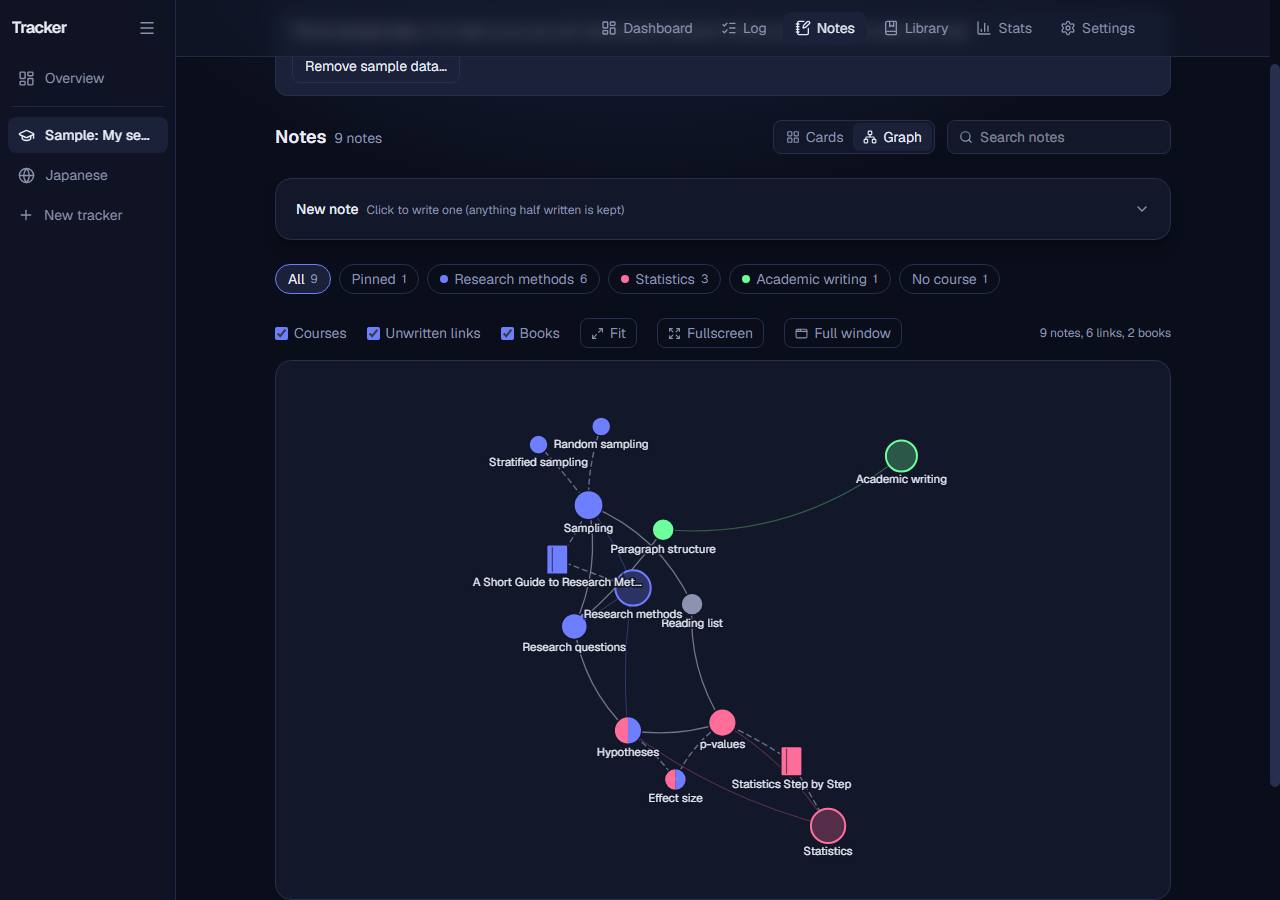
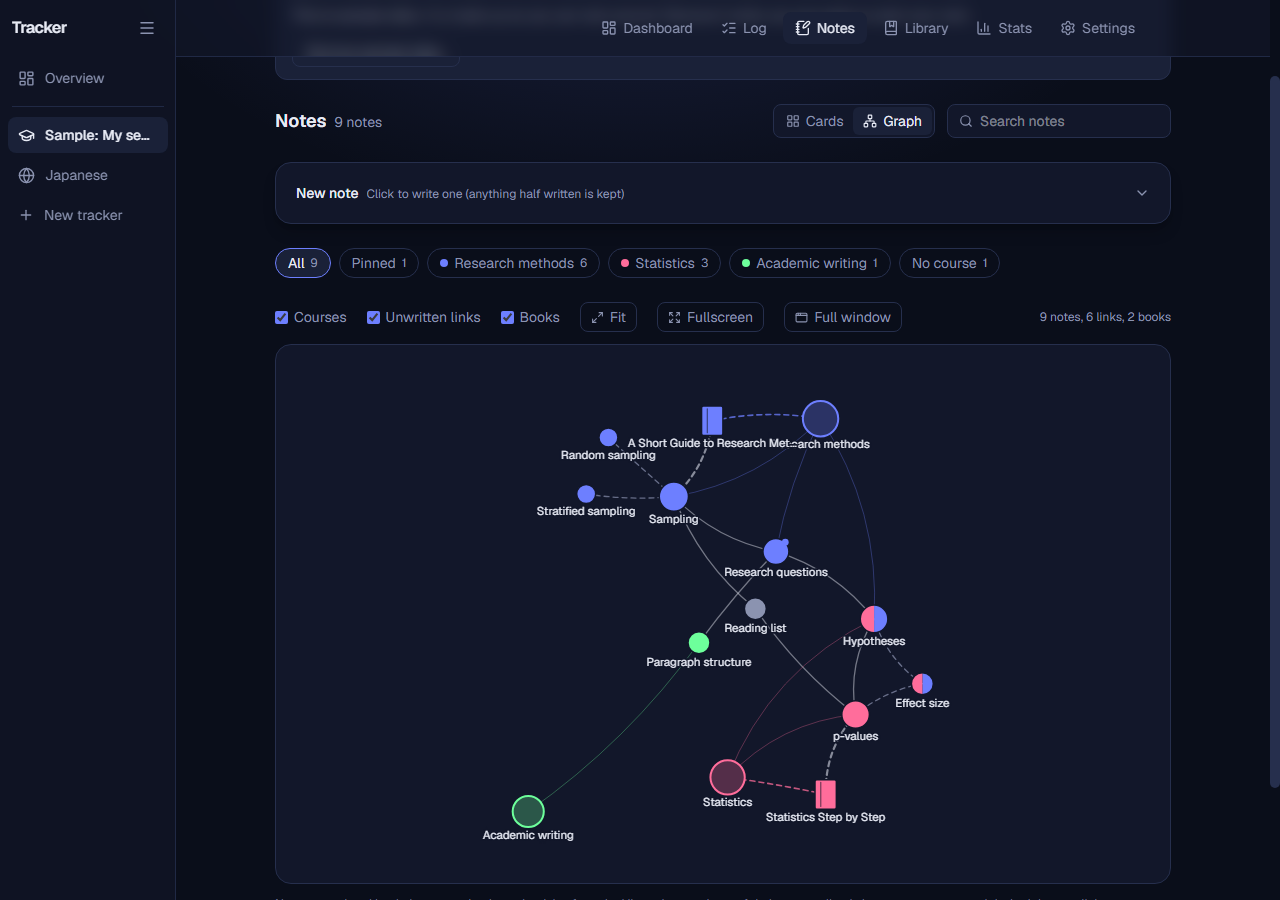
Update the site

diff --git a/docs/manual.html b/docs/manual.html
@@ -23,7 +23,7 @@
   </header>
 
   <h1>The full user manual</h1>
-  <p class="lead">Everything Tracker does, part by part. New here? Start with <a href="guide.html">Getting started in ten minutes</a>. This manual describes version 0.8.1; later versions may add things, and Overview, Settings, About lists what changed.</p>
+  <p class="lead">Everything Tracker does, part by part. New here? Start with <a href="guide.html">Getting started in ten minutes</a>. This manual describes version 0.9.0; later versions may add things, and Overview, Settings, About lists what changed.</p>
 
   <div class="layout">
     <nav class="toc" aria-label="Contents">
@@ -196,23 +196,23 @@
           <li>When you choose a course for a book in the Library, Tracker asks how the book is joined to it: <strong>Put it under the course</strong> (the first choice) or <strong>A normal connection</strong>, a plain line that says nothing more. Books you already had are under their course.</li>
           <li>A note you write <strong>about a book</strong> (<em>About</em> in the note&rsquo;s editor) is put under that book at once, and you do not have to choose.</li>
           <li>As with notes under notes, a note is in the course of the book it is under, as well as its own courses. A book that is only connected to its course does not pass the course down to its notes.</li>
-          <li>In the graph, a book under its course and a note under its book are joined by the same dashed grey line (no arrowhead, unless you switch arrowheads on in Customise). <strong>Put under...</strong> works for them too: a book goes under a course, a note goes under a book. Selecting the line of a book and its course offers <em>Make it a normal connection</em> or <em>Put under</em>, to switch between the two.</li>
+          <li>In the graph, a book under its course and a note under its book are joined by dashed lines, each in its own look (see <em>Four kinds of line for being under something</em> below). <strong>Put under...</strong> works for them too: a book goes under a course, a note goes under a book. Selecting the line of a book and its course offers <em>Make it a normal connection</em> or <em>Put under</em>, to switch between the two.</li>
         </ul>
         <h3>Finding</h3>
         <p>Filter by <em>All</em>, <em>Pinned</em>, a course, or <em>No course</em>, or type in <strong>Search notes</strong>. A course lists its notes and the notes under them. Notes can be dragged into your own order.</p>
         <h3>The graph</h3>
         <p>Press <strong>Graph</strong> (next to <em>Cards</em>) to see your notes as dots joined by their links. Courses are the large ring-shaped dots, books are rectangles, notes are dots coloured by course (a note in two courses is split in two colours).</p>
-        <figure class="shot"><a class="zoom" href="img/graph.png"><img src="img/graph.png" width="1280" height="900" alt="The notes graph with labelled dots for notes, courses and books, lines for links, and dashed grey lines from Random sampling and Stratified sampling to Sampling, the note they are under." loading="lazy"></a><figcaption>The graph. Drag a dot to move it; click one to open the note.</figcaption></figure>
+        <figure class="shot"><a class="zoom" href="img/graph.png"><img src="img/graph.png" width="1280" height="900" alt="The notes graph with labelled dots for notes, courses and books, lines for links, and dashed lines from Random sampling and Stratified sampling to Sampling, the note they are under." loading="lazy"></a><figcaption>The graph. Drag a dot to move it; click one to open the note.</figcaption></figure>
         <ul>
           <li>The tick boxes <strong>Courses</strong>, <strong>Unwritten links</strong> and <strong>Books</strong> show or hide those kinds of dots; <strong>Fit</strong> fits everything in view. Your choices are remembered.</li>
           <li><strong>Click a dot or a line</strong> and its details open in a <strong>bubble</strong> beside it. The bubble follows the dot when you move or zoom the picture, opens on the dot&rsquo;s other side near the edge of the picture, and has the buttons <em>Open note</em> (or <em>Open in Library</em> for a book), <em>Connect to...</em> and <em>Clear</em>. Clicking empty space closes it.</li>
           <li><strong>Full window</strong> (next to Fullscreen) makes the graph fill this browser window, without taking over the screen. It is for people who keep Tracker in a smaller window beside other things. The tick boxes and Fit come along, <kbd>Esc</kbd> leaves it, and <em>Open note</em> leaves it before showing the note. It works together with Fullscreen.</li>
           <li><strong>Fullscreen</strong> (when your browser allows it) gives the graph the whole screen. <kbd>Esc</kbd> leaves it.</li>
-          <li>A <strong>dashed grey line</strong> runs from a note to each note it is under, from a note to the book it is about, and from a book to the course it is under. It pulls the lower dot close, so the notes under a note or a book gather around it. A note has a line to a course only for the courses you gave it yourself; it reaches the others through what is above it. If a [[link]] also joins two notes, they share that one line. A book that is only connected to its course has a plain thin line in the course&rsquo;s colour instead. Arrowheads, pointing at the one above, can be switched on in Customise.</li>
+          <li><strong>Four kinds of line for being under something.</strong> A dashed line runs from a book to the course it is under, from a note to the book it is about, and from a note to each note it is under. It pulls the lower dot close, so what is under something gathers around it, and it has a look of its own by how far down it is, so that you can tell the levels apart. A <em>primary note</em> is one about a book (or a note with nothing above it), a <em>secondary note</em> is under a primary note, and a <em>tertiary note</em> is under a secondary note, or anywhere further down. The four lines, from the top: <strong>subfield and book</strong> (a dashed line in the course&rsquo;s colour), <strong>book and primary note</strong> (a heavy dashed line in the text colour), <strong>primary and secondary note</strong> (a thinner dashed grey line) and <strong>secondary and tertiary note</strong> (a thin dotted grey line). None has an arrowhead until you switch it on in Customise. A note has a line to a course only for the courses you gave it yourself; it reaches the others through what is above it. If a [[link]] also joins two notes, they share that one line. A book that is only connected to its course has a plain thin line in the course&rsquo;s colour instead. Arrowheads, pointing at the one above, can be switched on in Customise.</li>
           <li><strong>Put under...</strong> (next to <em>Connect to...</em> when a note or a book is selected) puts it under the note, book or course you click next: a note goes under a note or a book, a book goes under a course. The shortcut: hold <kbd>Alt</kbd> (or <kbd>Ctrl</kbd>) and drag the note or book onto what it goes under, the way holding <kbd>Shift</kbd> and dragging joins two dots (for a book and a course, <em>Connect to...</em> and <kbd>Shift</kbd>-drag make a normal connection). Select an under line and press <em>Disconnect</em> to take a note out from under another, or a book out of its course.</li>
           <li>A connection can carry a short <strong>comment</strong> that keeps its history, so you can write why two notes belong together. The comment is written along the line, tilted with it and cut with &ldquo;...&rdquo; to fit between the two dots; select the line to read it in full.</li>
           <li>In any tracker&rsquo;s Settings, <em>Notes graph</em>, you can choose the shape of each kind of dot and how the graph moves (it follows your computer&rsquo;s &ldquo;reduce motion&rdquo; setting by default).</li>
-          <li><strong>Customise</strong>, in the same place, starts closed and is optional. For every kind of line (links, subfield lines, under lines and suggestions; everything that is under something is an under line) you can set its style (solid, dashed or dotted), width, colour, opacity and strength (how hard it pulls its two dots together), and for under lines whether they have an arrowhead (off to begin with); for every kind of dot its fill colour and opacity and its border colour and width; and the general pull: <em>Spread</em> (how hard dots push apart) and <em>Centre</em> (how hard everything is pulled to the middle). <em>Automatic</em> keeps the colour the graph picks itself, such as a course&rsquo;s colour. A line still lights up when its dot is selected and fades when another is. <strong>Back to the defaults</strong> brings back the usual look. The choices are kept in this browser and used in every tracker.</li>
+          <li><strong>Customise</strong>, in the same place, starts closed and is optional. For every kind of line (links, note and subfield lines, each of the four lines for being under something, and suggestions) you can set its style (solid, dashed or dotted), width, colour, opacity and strength (how hard it pulls its two dots together), and for the four lines for being under something whether they have an arrowhead (off to begin with); for every kind of dot its fill colour and opacity and its border colour and width; and the general pull: <em>Spread</em> (how hard dots push apart) and <em>Centre</em> (how hard everything is pulled to the middle). <em>Automatic</em> keeps the colour the graph picks itself, such as a course&rsquo;s colour. A line still lights up when its dot is selected and fades when another is. <strong>Back to the defaults</strong> brings back the usual look. The choices are kept in this browser and used in every tracker.</li>
         </ul>
         <figure class="shot"><a class="zoom" href="img/graph-fullscreen.png"><img src="img/graph-fullscreen.png" width="1280" height="800" alt="The notes graph shown fullscreen, with a bubble beside the clicked note Research questions showing its course, its text, the notes it connects to and the buttons Open note, Connect to and Clear." loading="lazy"></a><figcaption>Fullscreen: the details of a clicked note open in a bubble beside its dot.</figcaption></figure>
 
@@ -368,6 +368,7 @@
           <tr><td>Passive course</td><td>A course left out of the weekly goals list; its time and goals are kept.</td></tr>
           <tr><td>Streak</td><td>Days in a row with time logged.</td></tr>
           <tr><td>Heatmap (calendar)</td><td>The grid of days on the Dashboard; a darker square means more time.</td></tr>
+          <tr><td>Primary, secondary and tertiary note</td><td>How far down a note is: a primary note is about a book (or has no note above it), a secondary note is under a primary note, a tertiary note is under a secondary note or further down. The graph draws each level&rsquo;s line in its own look.</td></tr>
           <tr><td>Wikilink</td><td>A link from one note to another written as <code>[[Title]]</code>.</td></tr>
           <tr><td>Unwritten link</td><td>A link to a note title that does not exist yet.</td></tr>
           <tr><td>ISBN / DOI</td><td>The number that identifies a book (ISBN) or an article (DOI).</td></tr>

diff --git a/docs/index.html b/docs/index.html
@@ -146,7 +146,7 @@ footer p { margin: 0 0 8px; }
         <figure class="shot"><a class="zoom" href="img/timer-running.png"><img loading="lazy" src="img/timer-running.png" width="1280" height="860" alt="The dashboard while a session is being timed: a clock at 00:00:06 with a Recording label, Pause and Stop and save buttons, and weekly goal bars beside it."></a><figcaption>The timer keeps running if you close the page. Started late? Move the start back.</figcaption></figure>
         <figure class="shot"><a class="zoom" href="img/log.png"><img loading="lazy" src="img/log.png" width="1280" height="940" alt="The log page: a form to add a past session above the list of all sessions."></a><figcaption>Forgot to start the timer? Add a past session by hand, and edit or delete any session later.</figcaption></figure>
         <figure class="shot"><a class="zoom" href="img/notes.png"><img loading="lazy" src="img/notes.png" width="1280" height="900" alt="The notes page as cards: a pinned note and five more, each marked with its course by a coloured dot, with links between notes shown as small tags such as Linked from Reading list."></a><figcaption>Notes link to each other with double brackets, and show what links back.</figcaption></figure>
-        <figure class="shot"><a class="zoom" href="img/graph.png"><img loading="lazy" src="img/graph.png" width="1280" height="900" alt="The notes graph: notes, courses and books drawn as coloured dots and shapes joined by lines, with labels such as Sampling, Hypotheses and p-values, and dashed grey lines from notes to the notes they are under."></a><figcaption>The notes graph shows how your notes, courses and books connect.</figcaption></figure>
+        <figure class="shot"><a class="zoom" href="img/graph.png"><img loading="lazy" src="img/graph.png" width="1280" height="900" alt="The notes graph: notes, courses and books drawn as coloured dots and shapes joined by lines, with labels such as Sampling, Hypotheses and p-values, and dashed lines from notes to the notes they are under."></a><figcaption>The notes graph shows how your notes, courses and books connect.</figcaption></figure>
         <figure class="shot"><a class="zoom" href="img/library.png"><img loading="lazy" src="img/library.png" width="1280" height="900" alt="The library: two books with reading progress, pages per hour, an estimate of the time left and a field for the page you are on."></a><figcaption>The library tracks what you read, how fast, and how long it will take.</figcaption></figure>
         <figure class="shot"><a class="zoom" href="img/stats.png"><img loading="lazy" src="img/stats.png" width="1280" height="900" alt="The stats page: a bar chart of daily study time over 30 days split by course and coloured by activity, above a comparison of this week with last week."></a><figcaption>Stats: where the time went, and how this week compares.</figcaption></figure>
         <figure class="shot"><a class="zoom" href="img/overview.png"><img loading="lazy" src="img/overview.png" width="1280" height="900" alt="The overview page that adds up two trackers: totals for today, this week and all time, a day streak, a daily chart and a split of time by tracker."></a><figcaption>The overview adds up all your trackers, for example a language and a degree.</figcaption></figure>
